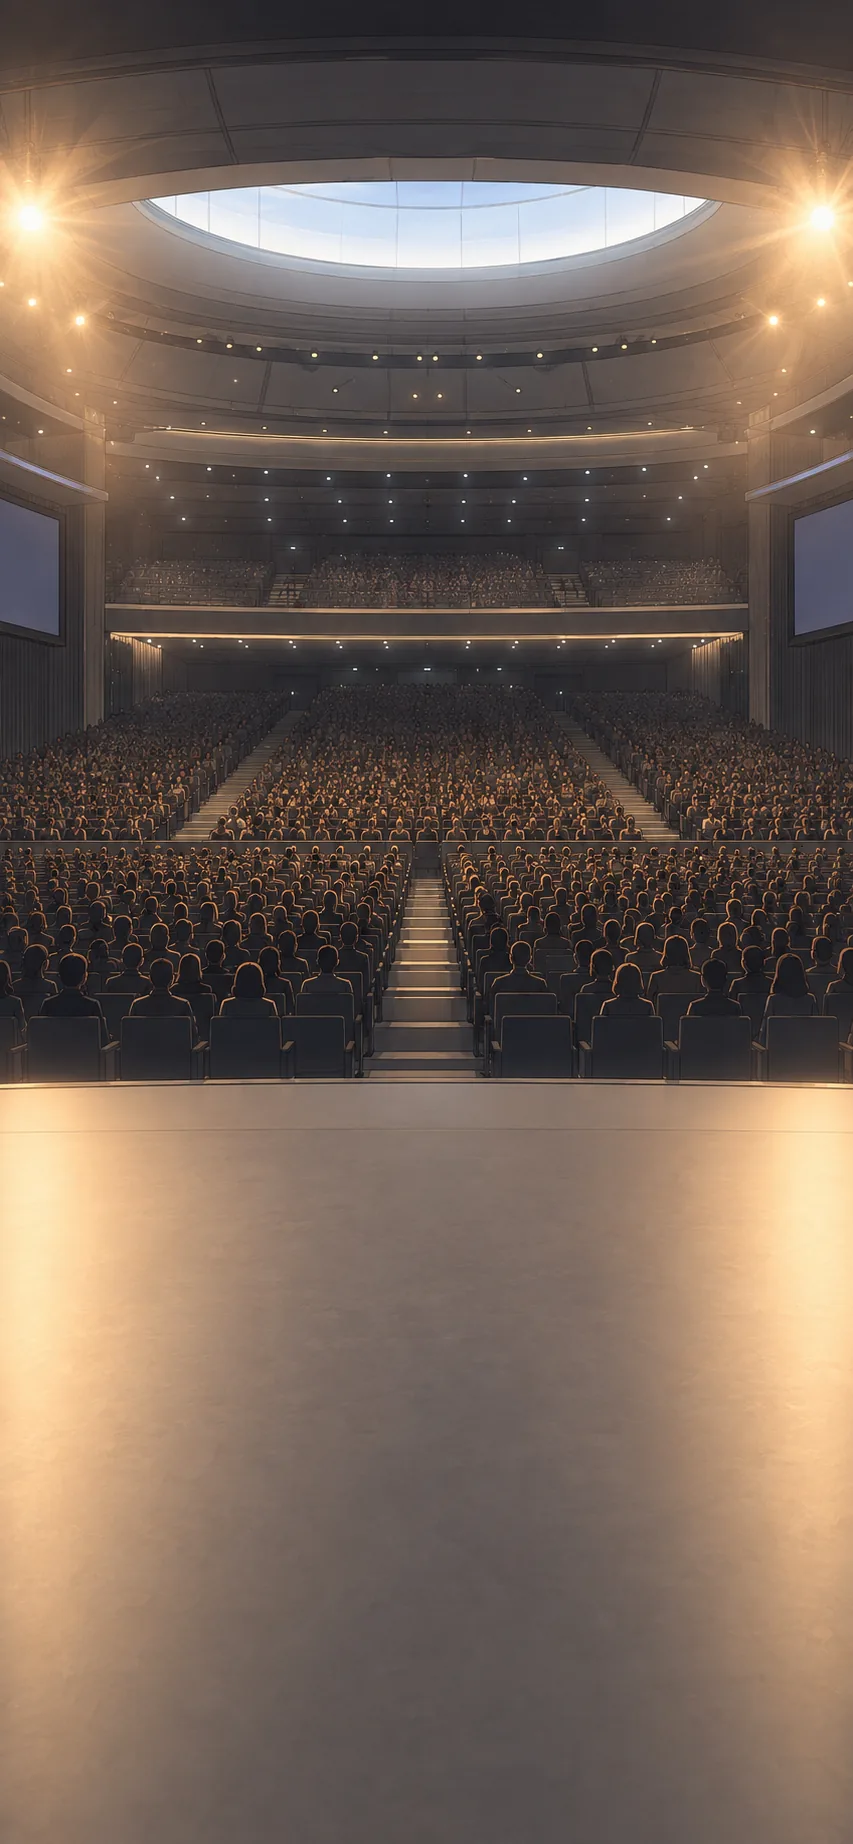
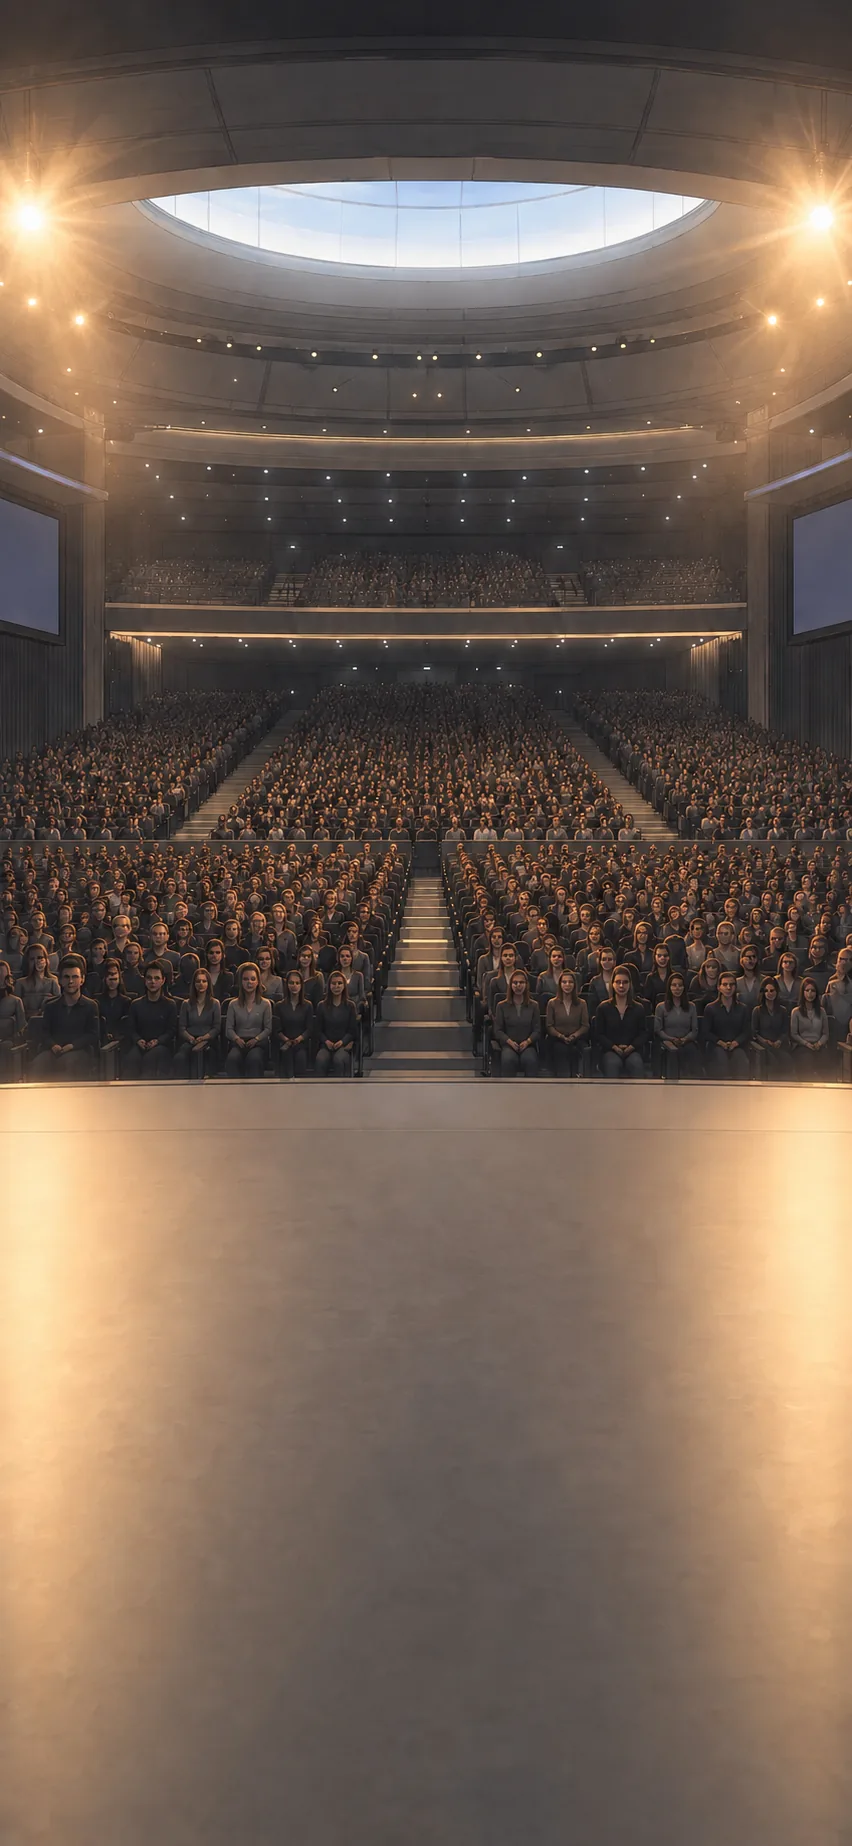
Palco S5: platea ridisegnata, il pubblico guarda verso il palco
Il PNG caricato a mano in assets/bg (bg_palco_platea_piena_front.png,
2 MB) e' passato da prepara_asset.py e sostituisce il WebP con lo
stesso nome di prima; il PNG esce dal repo. Versione asset alzata.

Claude-Session: https://claude.ai/code/session_01518cHx9KkHbygCKTge3qUC

diff --git a/index.html b/index.html
@@ -35,7 +35,7 @@
   gtag('js', new Date());
   gtag('config', 'G-SYX1RZLNNE');
 </script>
-<link rel="stylesheet" href="./game/engine.css?v=145">
+<link rel="stylesheet" href="./game/engine.css?v=146">
 </head>
 <body>
 <div id="stage">
@@ -373,12 +373,12 @@
      telefono, cosi' la sigla dello studio si sente davvero. Si salta con
      ?subito (i tool di verifica), ?dev e ?scene= (sviluppo). -->
 <div id="home" hidden>
-  <img id="homeBg" src="./assets/bg/bg_intro.webp?v=145" alt="">
+  <img id="homeBg" src="./assets/bg/bg_intro.webp?v=146" alt="">
   <button id="homeGioca" type="button">GIOCA</button>
 </div>
 
-<script src="./game/analytics.js?v=145"></script>
-<script src="./game/engine.js?v=145"></script>
+<script src="./game/analytics.js?v=146"></script>
+<script src="./game/engine.js?v=146"></script>
 <script>
 (function () {
   var params = new URLSearchParams(location.search);
@@ -498,7 +498,7 @@
   // La banca dei pronostici sta in un file suo: e' grande quanto tutto il resto
   // dello script (29 domande x 4 stili di battute) e cambia per conto proprio.
   var prendi = function (nome) {
-    return fetch('./game/' + nome + '?v=145', { cache: 'no-cache' })
+    return fetch('./game/' + nome + '?v=146', { cache: 'no-cache' })
       .then(function (r) { if (!r.ok) throw new Error(nome + ': ' + r.status); return r.json(); });
   };
   // backend.json e' facoltativo: senza, la partita si chiude lo stesso e
